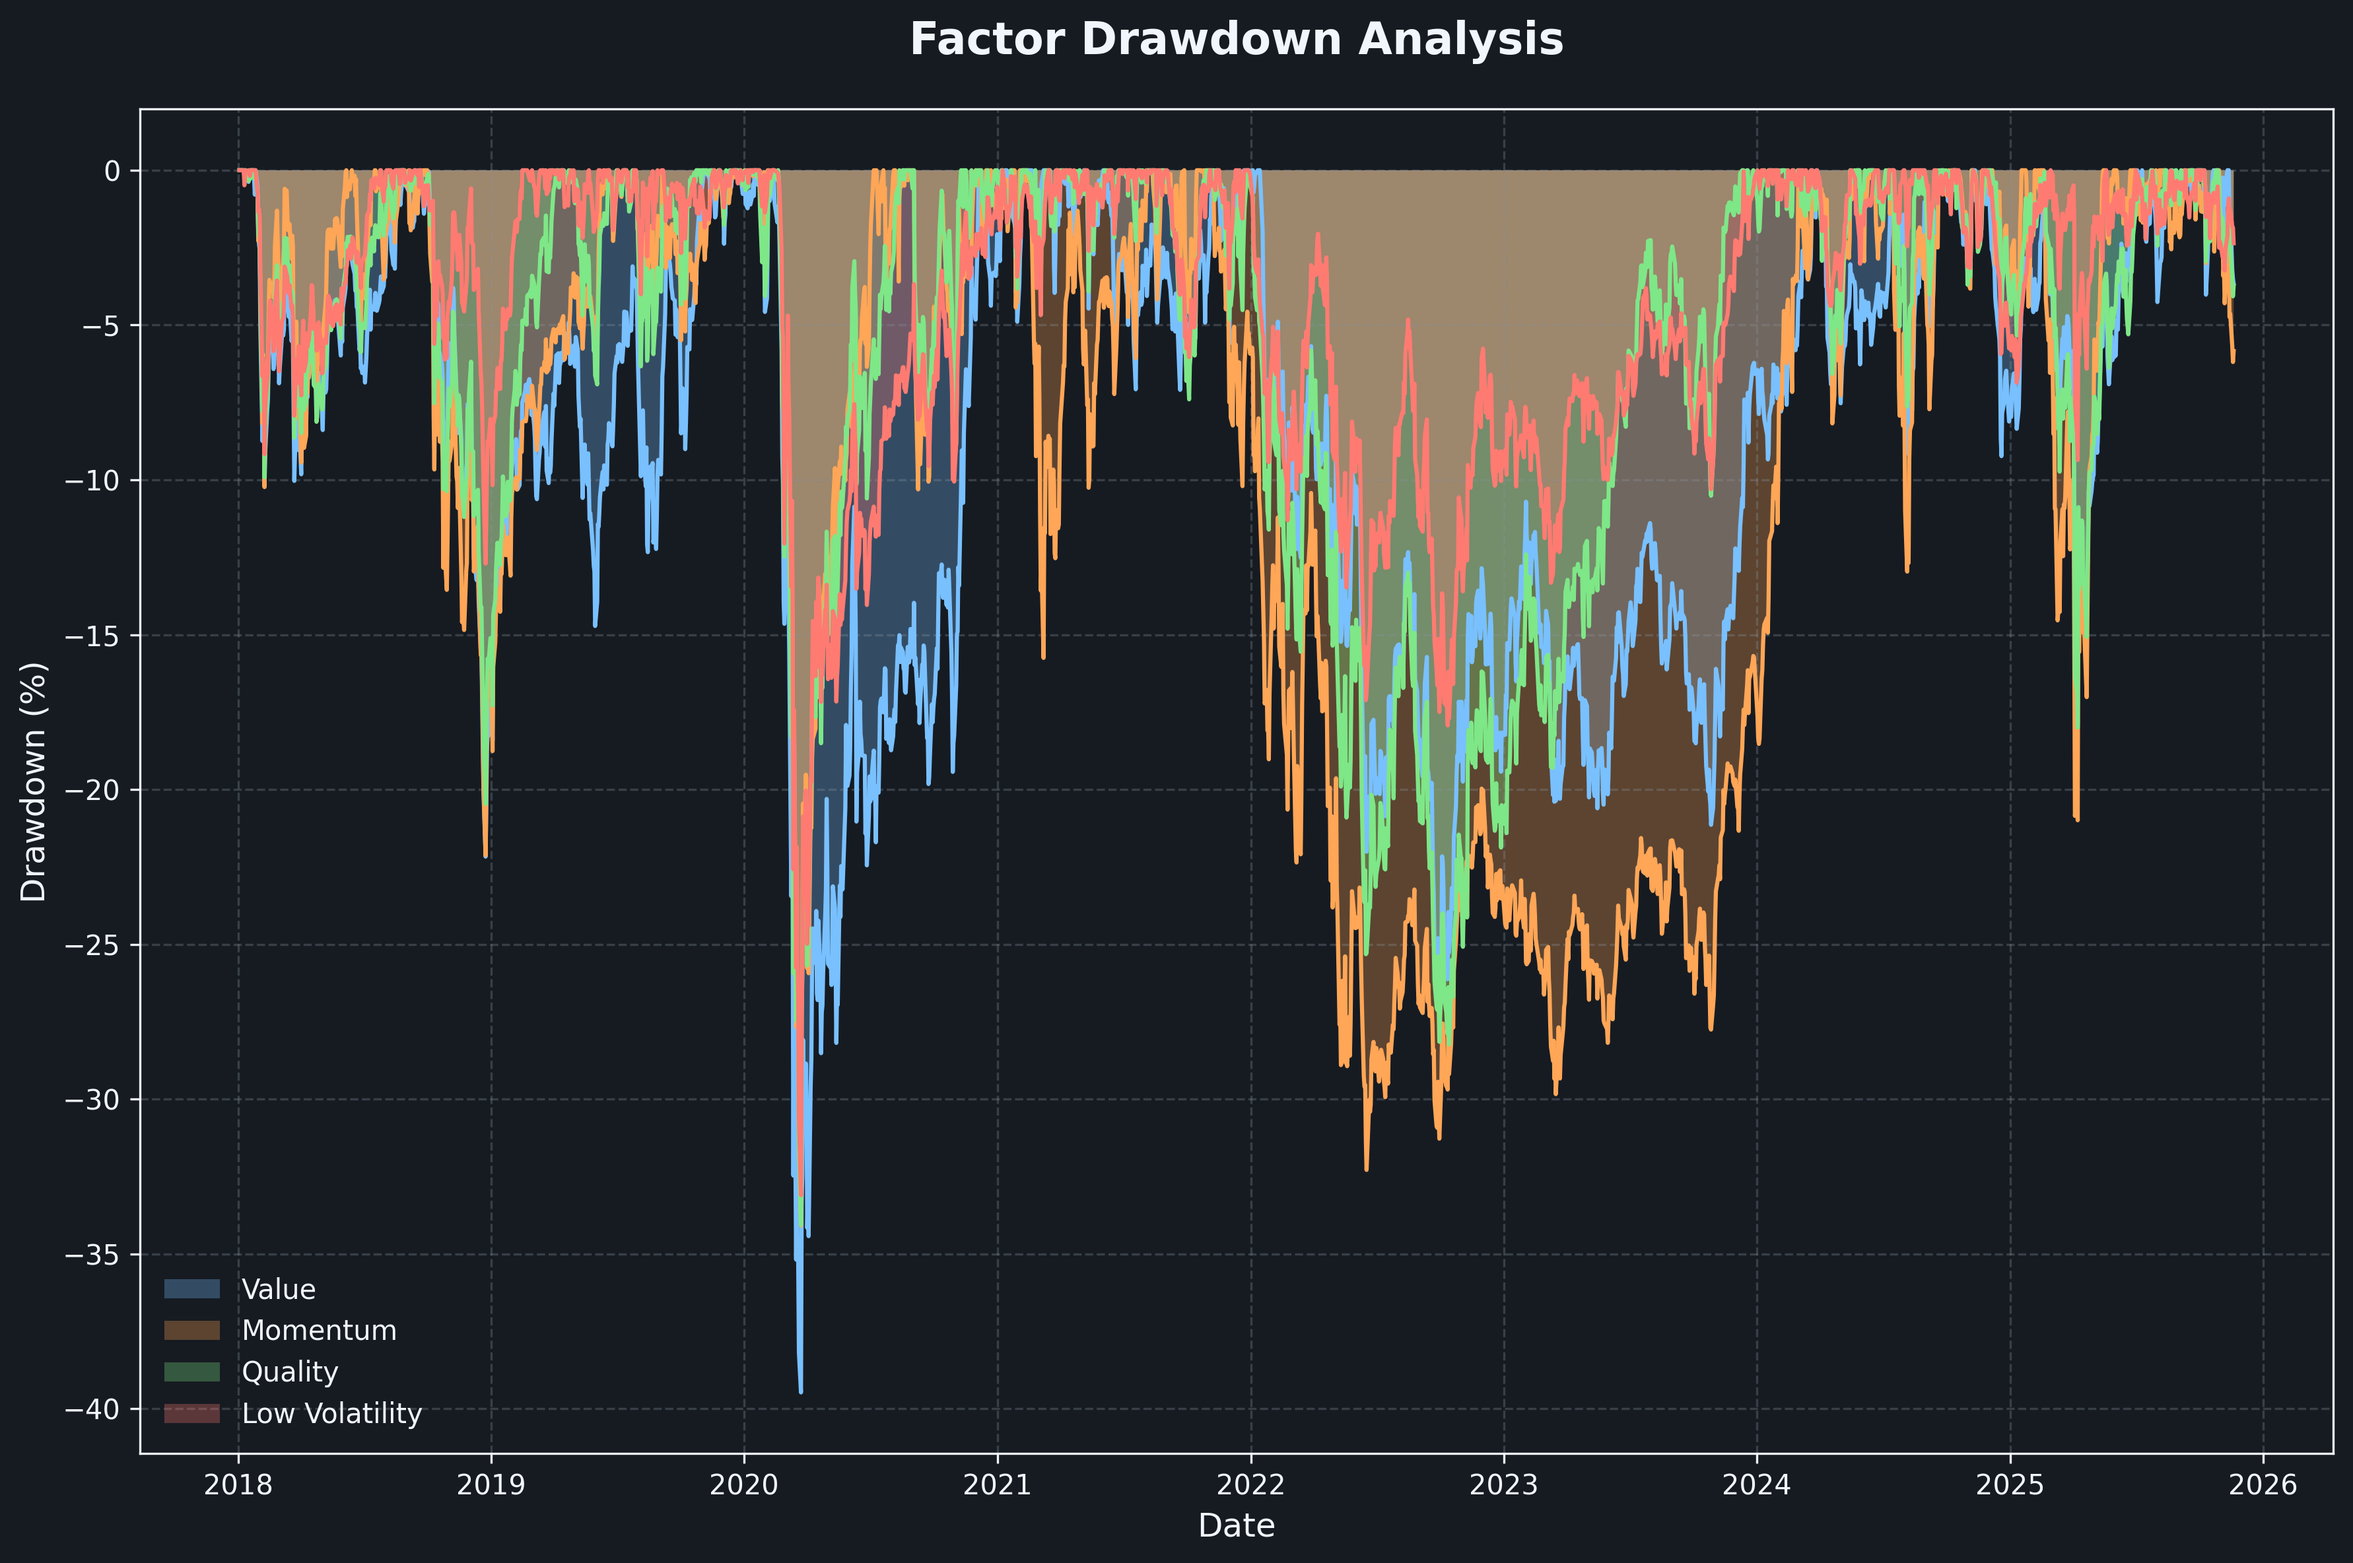
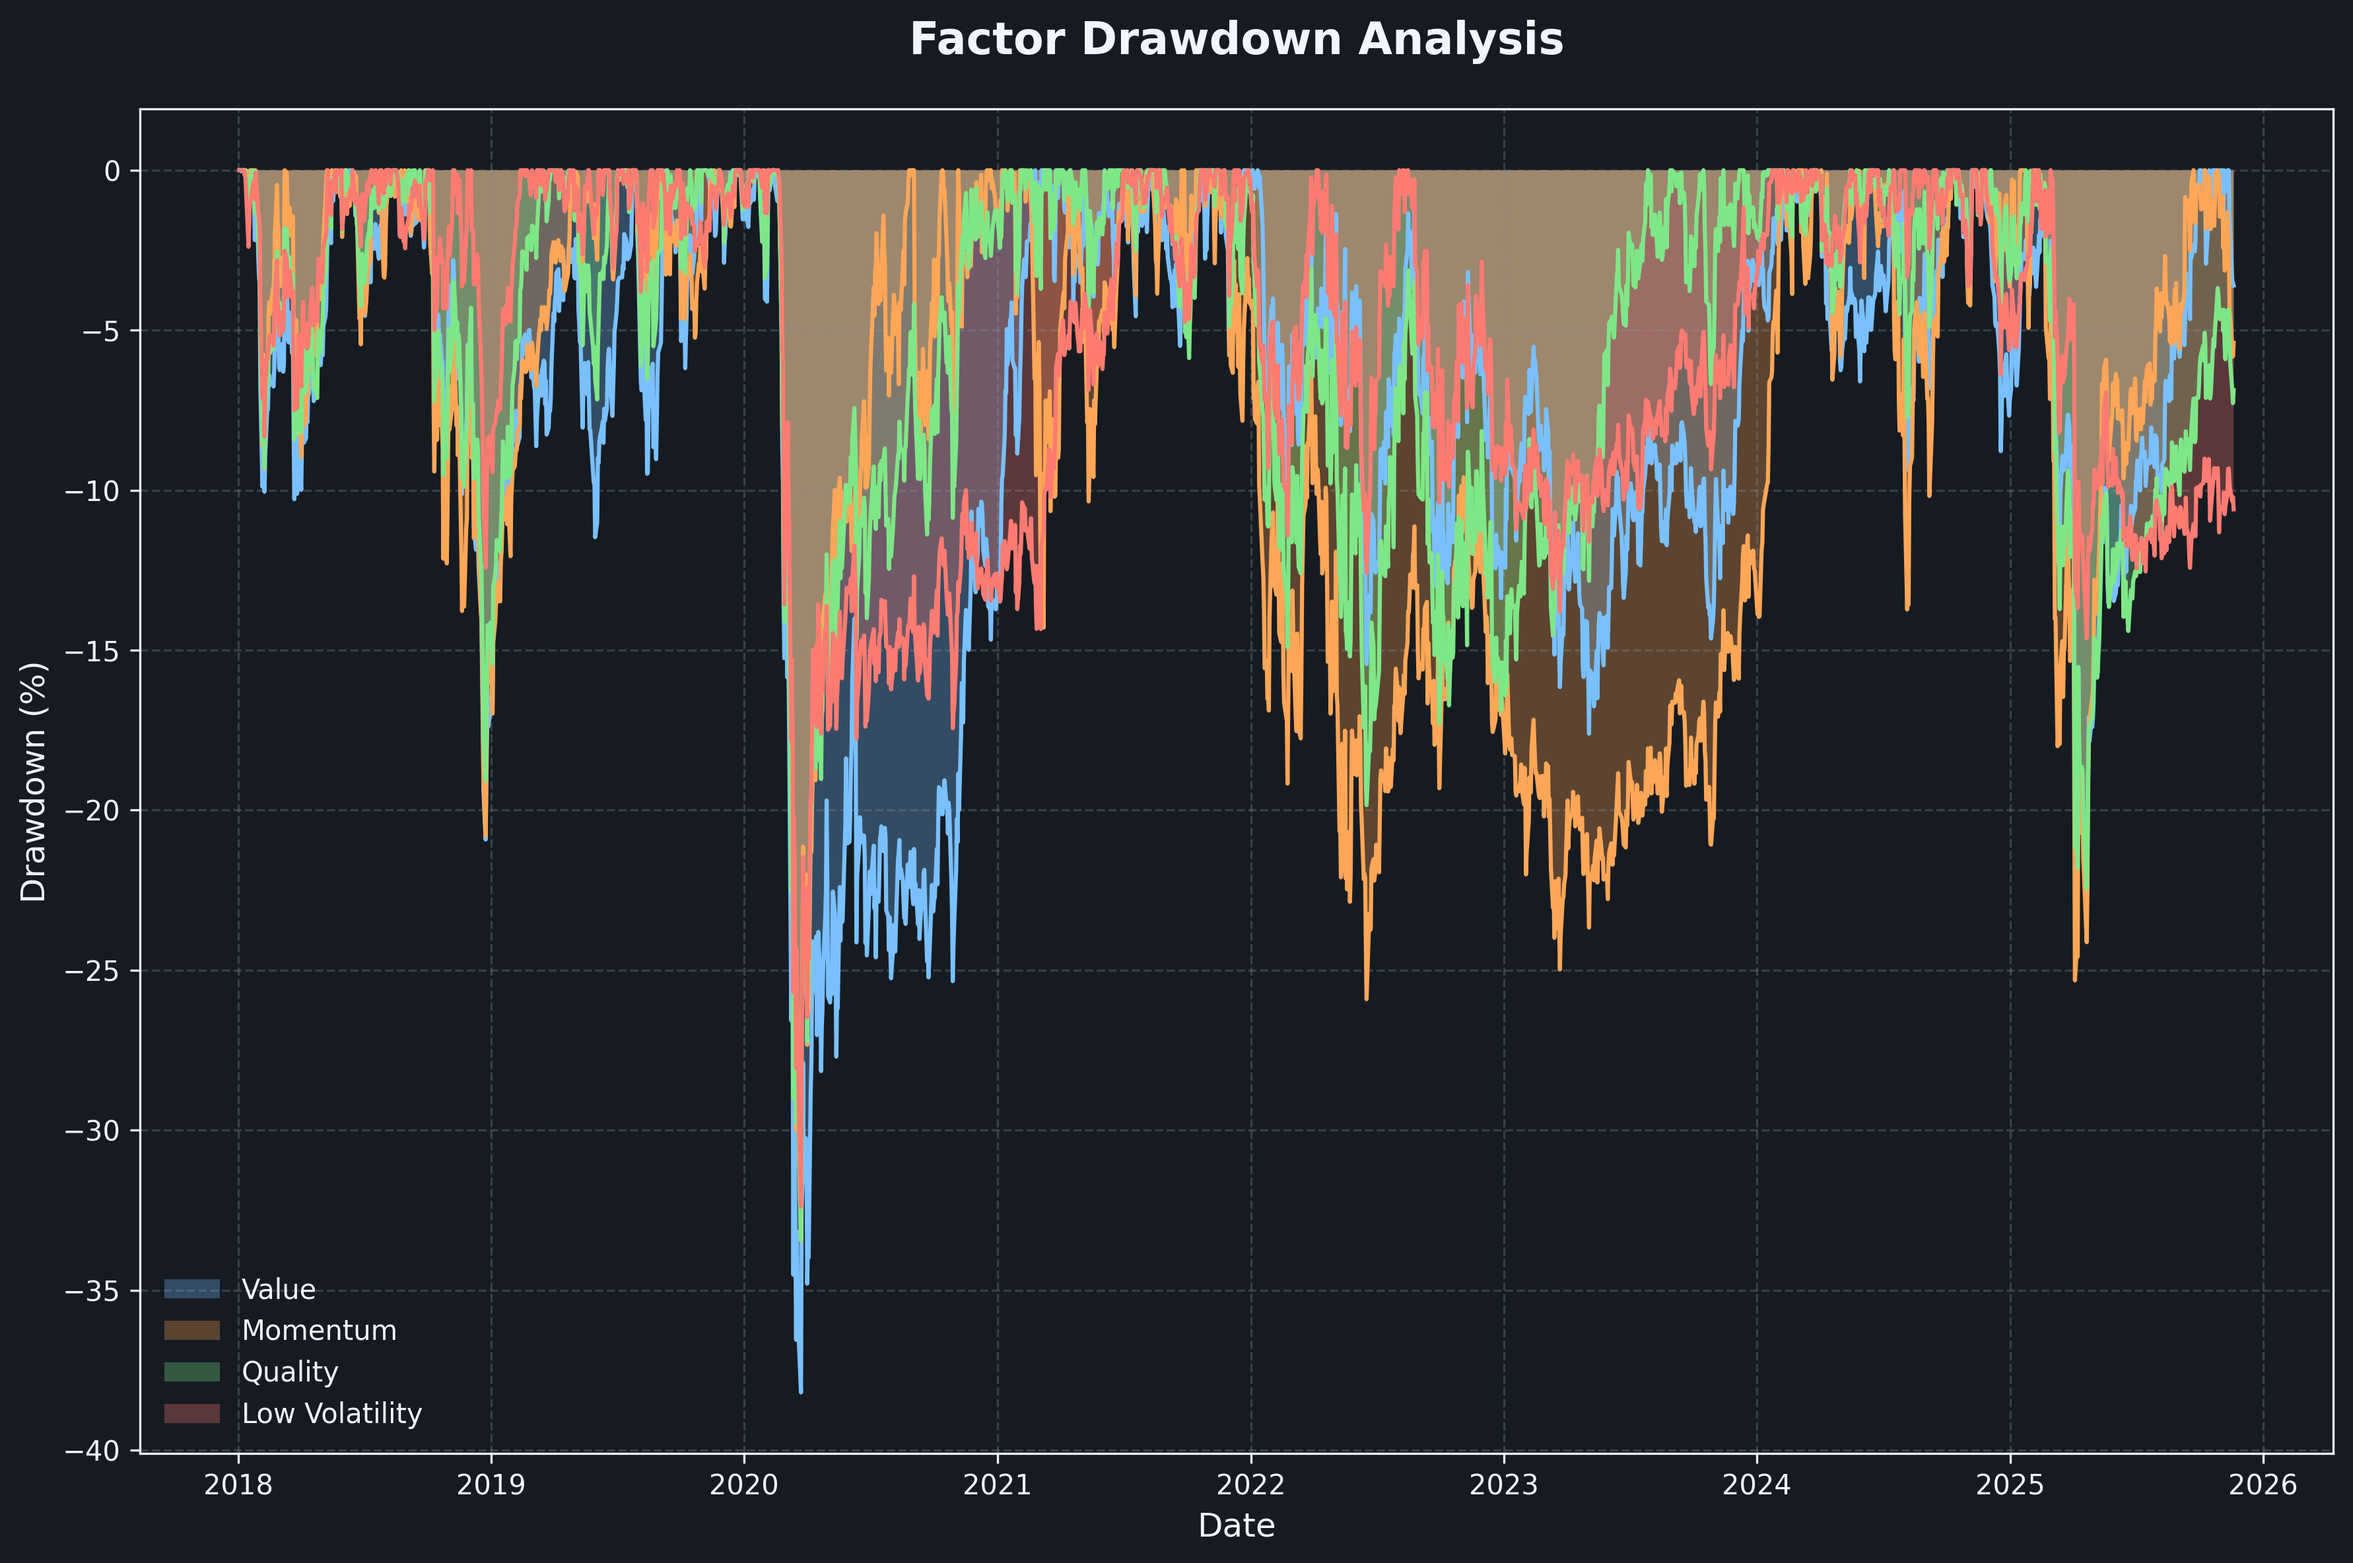
Euro bsae currency

diff --git a/src/factors.py b/src/factors.py
@@ -37,7 +37,7 @@ class FactorDataLoader:
         self.start_date: str = start_date
         self.end_date: str = end_date
         self.currency_pair: str = currency_pair
-        self.eur_usd_rate: Optional[pd.Series] = None
+        self.usd_eur_rate: Optional[pd.Series] = None
         
     def _fetch_data(self, ticker: str) -> Optional[pd.DataFrame]:
         """
@@ -78,7 +78,8 @@ class FactorDataLoader:
     
     def _load_currency_conversion(self) -> bool:
         """
-        Load EUR/USD exchange rate for currency conversion.
+        Load USD/EUR exchange rate for currency conversion.
+        Inverts EUR/USD rate to get USD/EUR.
         
         Returns:
             True if successful, False otherwise
@@ -86,34 +87,35 @@ class FactorDataLoader:
         currency_data = self._fetch_data(self.currency_pair)
         
         if currency_data is not None and 'Close' in currency_data.columns:
-            self.eur_usd_rate = currency_data['Close']
+            # Invert EUR/USD to get USD/EUR rate
+            self.usd_eur_rate = 1.0 / currency_data['Close']
             return True
         else:
-            # Fallback: use constant conversion rate
-            warnings.warn(f"Failed to load {self.currency_pair}, using constant rate 1.10")
+            # Fallback: use constant conversion rate (1 USD = 0.91 EUR)
+            warnings.warn(f"Failed to load {self.currency_pair}, using constant rate 0.91")
             return False
     
-    def _convert_eur_to_usd(self, eur_prices: pd.Series, ticker: str) -> pd.Series:
+    def _convert_usd_to_eur(self, usd_prices: pd.Series, ticker: str) -> pd.Series:
         """
-        Convert EUR-denominated prices to USD.
+        Convert USD-denominated prices to EUR.
         
         Args:
-            eur_prices: Price series in EUR
+            usd_prices: Price series in USD
             ticker: Ticker symbol for logging
             
         Returns:
-            Price series converted to USD
+            Price series converted to EUR
         """
-        if self.eur_usd_rate is not None:
+        if self.usd_eur_rate is not None:
             # Align dates and forward-fill missing rates
-            aligned_rate = self.eur_usd_rate.reindex(eur_prices.index, method='ffill')
-            return eur_prices * aligned_rate
+            aligned_rate = self.usd_eur_rate.reindex(usd_prices.index, method='ffill')
+            return usd_prices * aligned_rate
         else:
-            # Use constant conversion rate as fallback
-            return eur_prices * 1.10
+            # Use constant conversion rate as fallback (1 USD = 0.91 EUR)
+            return usd_prices * 0.91
     
-    def load_tickers(self, tickers_dict: Dict[str, str], eur_tickers: List[str]) -> pd.DataFrame:
-        """Load and process ticker data with currency conversion."""
+    def load_tickers(self, tickers_dict: Dict[str, str], usd_tickers: List[str]) -> pd.DataFrame:
+        """Load and process ticker data with currency conversion to EUR base."""
         # Load currency conversion rate first
         self._load_currency_conversion()
         
@@ -150,9 +152,9 @@ class FactorDataLoader:
                 # Ensure the Series has a name
                 prices.name = name
                 
-                # Convert EUR tickers to USD
-                if ticker in eur_tickers:
-                    prices = self._convert_eur_to_usd(prices, ticker)
+                # Convert USD tickers to EUR
+                if ticker in usd_tickers:
+                    prices = self._convert_usd_to_eur(prices, ticker)
                     prices.name = name  # Restore name after conversion
                 
                 price_data[name] = prices

diff --git a/src/main.py b/src/main.py
@@ -56,7 +56,7 @@ class FactorInvestingAnalyzer:
         print("\nLoading Factor ETF data...")
         self.factor_prices = self.data_loader.load_tickers(
             tickers_dict=self.config.FACTOR_TICKERS,
-            eur_tickers=self.config.EUR_TICKERS
+            usd_tickers=self.config.USD_TICKERS
         )
         self.factor_returns = self.data_loader.get_returns(self.factor_prices)
         print(f"Factor data loaded: {len(self.factor_prices)} days, {len(self.factor_prices.columns)} factors")
@@ -65,7 +65,7 @@ class FactorInvestingAnalyzer:
         print("\nLoading Geography ETF data...")
         self.geography_prices = self.data_loader.load_tickers(
             tickers_dict=self.config.GEOGRAPHY_TICKERS,
-            eur_tickers=self.config.EUR_TICKERS
+            usd_tickers=self.config.USD_TICKERS
         )
         self.geography_returns = self.data_loader.get_returns(self.geography_prices)
         print(f"Geography data loaded: {len(self.geography_prices)} days, {len(self.geography_prices.columns)} regions")

diff --git a/config.py b/config.py
@@ -26,13 +26,13 @@ class Config:
     # Geography ETF Tickers
     GEOGRAPHY_TICKERS: Dict[str, str] = {
         "US Market": "SPY",
-        "Europe": "EXSA.DE",  # EUR-denominated, requires conversion
+        "Europe": "EXSA.DE",
         "Emerging Markets": "EEM"
     }
     
-    # Currency Conversion
-    CURRENCY_PAIR: str = "EURUSD=X"
-    EUR_TICKERS: List[str] = ["EXSA.DE"]  # Tickers that need EUR to USD conversion
+    # Currency Conversion (Base Currency: EUR)
+    CURRENCY_PAIR: str = "EURUSD=X"  # Will be inverted to get USD/EUR rate
+    USD_TICKERS: List[str] = ["SPY", "EEM", "VLUE", "MTUM", "QUAL", "USMV"]  # Tickers that need USD to EUR conversion
     
     # Date Range for Analysis
     START_DATE: str = "2018-01-01"
